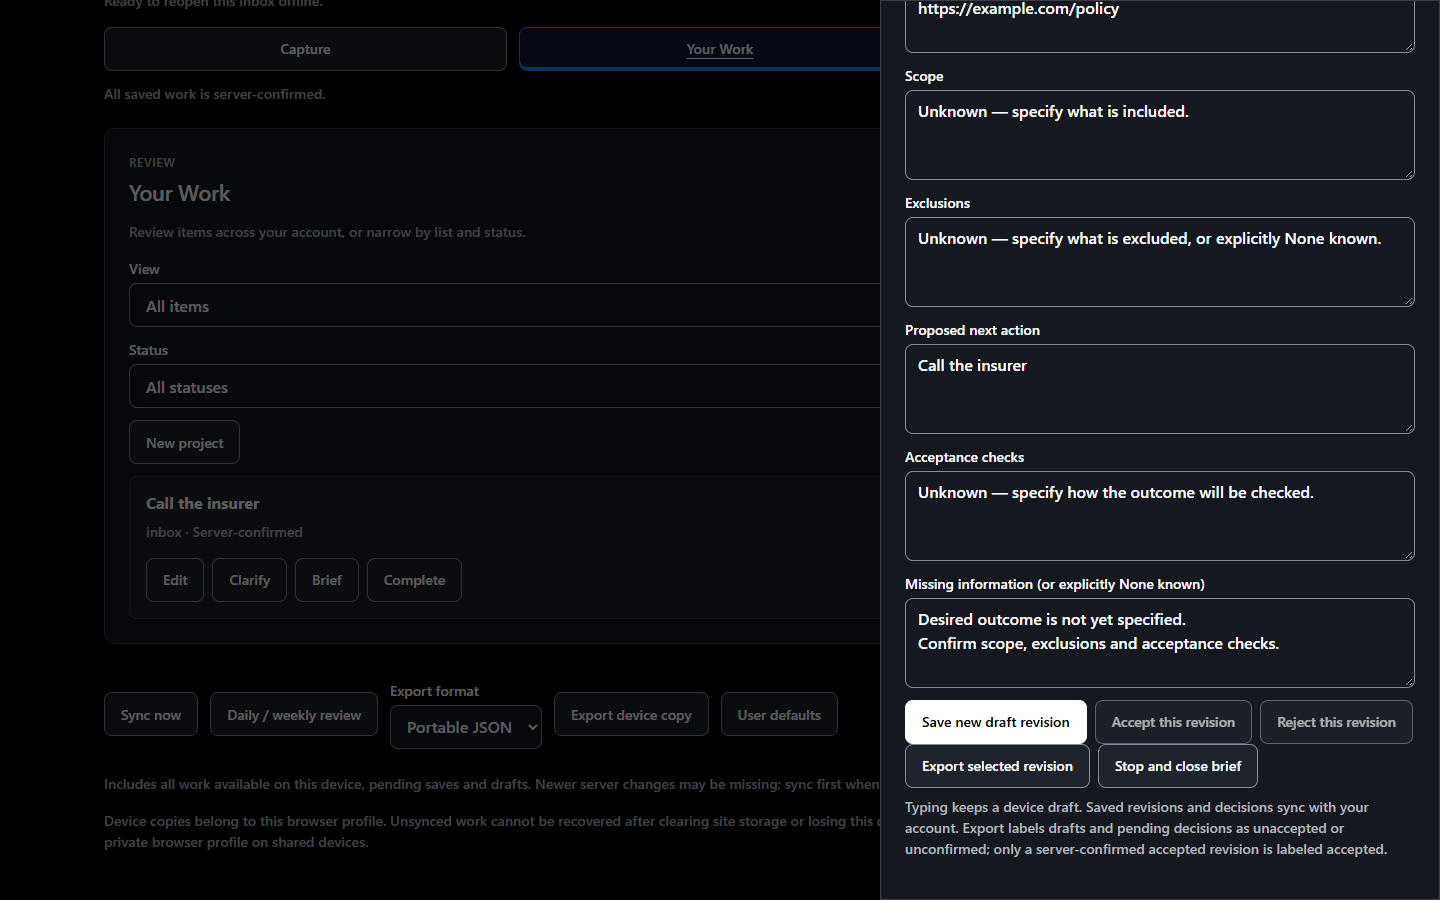
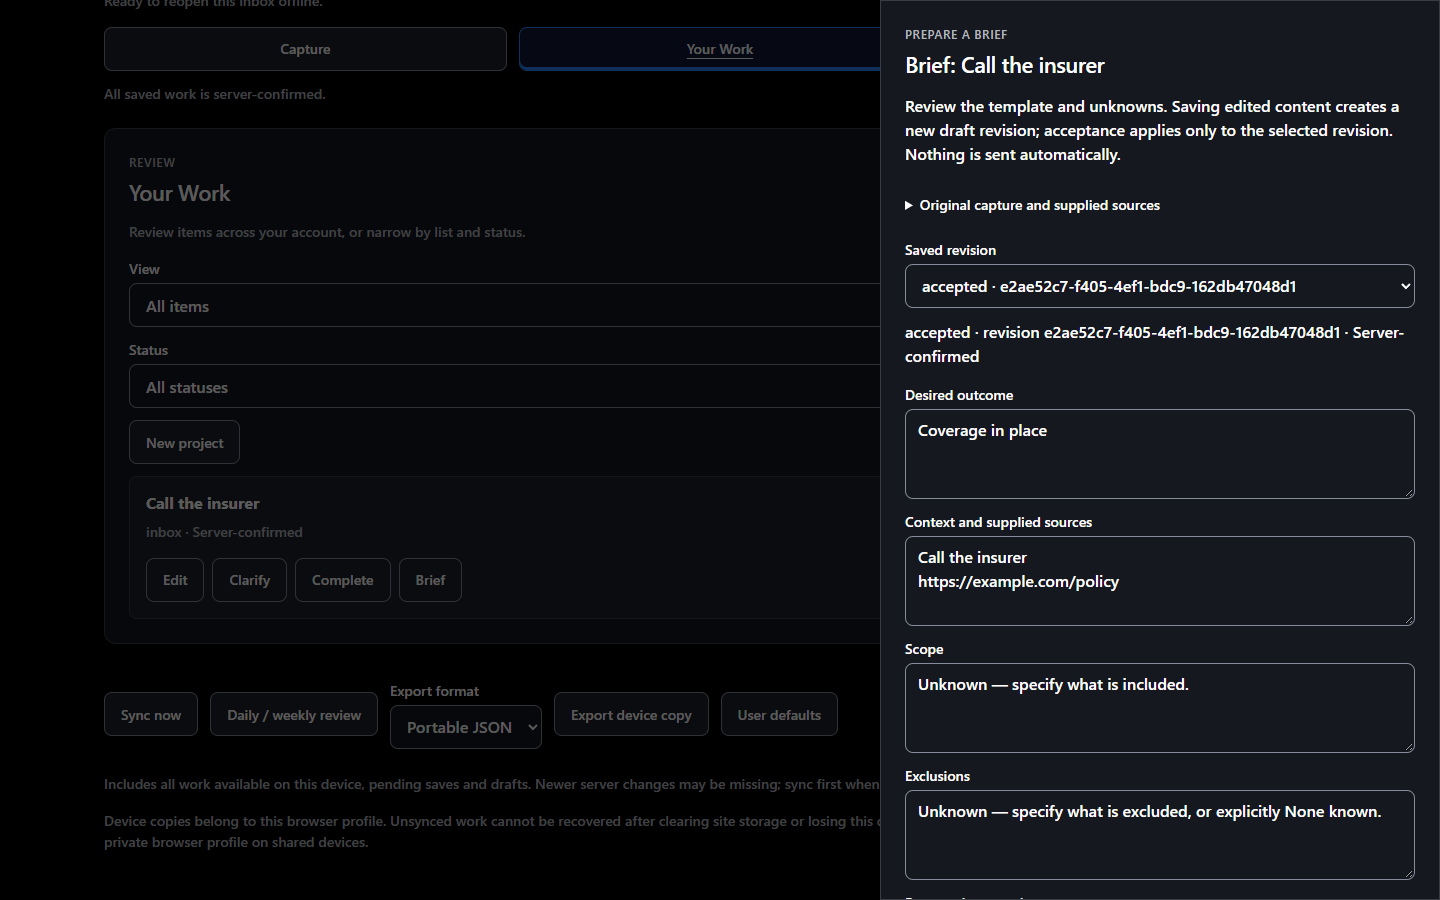
Integrate main guidance and verify combined offline shell

diff --git a/html/inbox.js b/html/inbox.js
@@ -1,9 +1,9 @@
-import { transact, key, projected, enqueue, applyReceipt, captureMutations } from './inbox-store.js?v=16';
-import { optionFields, formValues, fillValues, localDate, taskFields, addTaskControls, refreshTaskOptions, defaultsFrom, validateWorkflow, reviewReady } from './inbox-fields.js?v=16';
-import { deviceExport, readableExport } from './inbox-export.js?v=16';
-import { clarificationUI } from './clarification.js?v=16';
-import { setupReviews } from './reviews.js?v=16';
-import { setupBriefs } from './briefs.js?v=16';
+import { transact, key, projected, enqueue, applyReceipt, captureMutations } from './inbox-store.js?v=17';
+import { optionFields, formValues, fillValues, localDate, taskFields, addTaskControls, refreshTaskOptions, defaultsFrom, validateWorkflow, reviewReady } from './inbox-fields.js?v=17';
+import { deviceExport, readableExport } from './inbox-export.js?v=17';
+import { clarificationUI } from './clarification.js?v=17';
+import { setupReviews } from './reviews.js?v=17';
+import { setupBriefs } from './briefs.js?v=17';
 
 const $ = id => document.getElementById(id);
 const capture = $('capture'), edit = $('edit');
@@ -204,8 +204,8 @@ function render() {
     const action = record.status === 'completed' ? 'Reopen' : 'Complete';
     actions.append(button('Edit', () => openEditor(record), `Edit ${record.title}`, `${key(record)}:edit`),
       button('Clarify', () => clarification.open(record), `Clarify ${record.title}`, `${key(record)}:clarify`),
-      button('Brief', () => briefs.open(record), `Brief ${record.title}`, `${key(record)}:brief`),
-      button(action, () => updateRecord(record, { status: record.status === 'completed' ? record.statusBeforeCompletion || 'next' : 'completed' }), `${action} ${record.title}`, `${key(record)}:complete`));
+      button(action, () => updateRecord(record, { status: record.status === 'completed' ? record.statusBeforeCompletion || 'next' : 'completed' }), `${action} ${record.title}`, `${key(record)}:complete`),
+      button('Brief', () => briefs.open(record), `Brief ${record.title}`, `${key(record)}:brief`));
     if (record.workflowBeforeTransition) actions.append(button('Undo state change', () => updateRecord(record, record.workflowBeforeTransition), `Undo state change ${record.title}`, `${key(record)}:undo`));
     article.append(title, notes, metadata, status, actions); return article;
   }));

diff --git a/html/briefs.js b/html/briefs.js
@@ -36,7 +36,7 @@ export function setupBriefs({ records, save, journal, showDialog }) {
   }
   const content = () => Object.fromEntries(briefSections.map(([name]) => [name, form.elements[name].value]));
   const selected = () => active?.selectedId ? records()[`brief:${active.selectedId}`] : null;
-  const dirty = () => JSON.stringify(content()) !== JSON.stringify(active?.baseline);
+  const dirty = () => briefSections.some(([name]) => form.elements[name].value !== active?.baseline?.[name]);
   const snapshot = () => active ? { ...structuredClone(active), content: content(), open: dialog.open } : null;
   function error(message) { $('briefError').textContent = message; }
   function draw() {
@@ -102,7 +102,7 @@ export function setupBriefs({ records, save, journal, showDialog }) {
   $('briefExport').onclick = () => {
     if (dirty() || !selected()) return;
     const record = selected(), link = document.createElement('a'), url = URL.createObjectURL(new Blob([readableBrief(record)], { type: 'text/plain;charset=utf-8' }));
-    link.href = url; link.download = `brief-${record.id}-${record.status}.txt`; link.click(); setTimeout(() => URL.revokeObjectURL(url), 1000);
+    link.href = url; link.download = `brief-${record.id}-${record.localState ? 'unconfirmed' : record.status}.txt`; link.click(); setTimeout(() => URL.revokeObjectURL(url), 1000);
   };
   $('closeBriefs').onclick = () => dialog.close();
   dialog.addEventListener('cancel', event => { if (busy) event.preventDefault(); });

diff --git a/html/inbox-sw.js b/html/inbox-sw.js
@@ -1,8 +1,8 @@
 // Only public shell assets are cached. Never cache API/auth requests or task data.
-const CACHE = 'todo-inbox-shell-v16';
-const ASSETS = ['/local-guidance.js?v=16', '/', '/index.html', '/inbox.html', '/styles.css', '/theme.js', '/inbox.css', '/inbox.js', '/inbox-store.js', '/inbox-fields.js', '/inbox-export.js', '/reviews.js', '/clarification.js', '/clarification.js?v=16', '/reviews.js?v=16', '/pwa.js?v=16', '/manifest.json', '/icons/icon-192.png', '/icons/icon-512.png', '/icons/apple-touch-icon.png'];
+const CACHE = 'todo-inbox-shell-v17';
+const ASSETS = ['/local-guidance.js?v=17', '/', '/index.html', '/inbox.html', '/styles.css', '/theme.js', '/inbox.css', '/inbox.js', '/inbox-store.js', '/inbox-fields.js', '/inbox-export.js', '/reviews.js', '/clarification.js', '/clarification.js?v=17', '/reviews.js?v=17', '/pwa.js?v=17', '/manifest.json', '/icons/icon-192.png', '/icons/icon-512.png', '/icons/apple-touch-icon.png'];
 // Fresh module URLs bypass older workers' exact asset allowlists.
-ASSETS.push('/inbox.js?v=16', '/inbox-store.js?v=16', '/inbox-fields.js?v=16', '/inbox-export.js?v=16', '/briefs.js', '/briefs.js?v=16');
+ASSETS.push('/inbox.js?v=17', '/inbox-store.js?v=17', '/inbox-fields.js?v=17', '/inbox-export.js?v=17', '/briefs.js', '/briefs.js?v=17');
 self.addEventListener('install', event => {
   event.waitUntil(caches.open(CACHE).then(cache => cache.addAll(ASSETS)));
 });

diff --git a/html/inbox-export.js b/html/inbox-export.js
@@ -1,7 +1,7 @@
 // A device snapshot is never an instruction to replay old writes.
 const FORMAT = 'az-todo-device-export';
 const object = value => value !== null && typeof value === 'object' && !Array.isArray(value);
-import { readableBrief } from './briefs.js?v=16';
+import { readableBrief } from './briefs.js?v=17';
 const knownTypes = ['item', 'list', 'project', 'settings', 'clarification', 'review', 'brief'];
 const recordFields = ['id', 'type', 'accountId', 'version', 'createdUtc', 'updatedUtc', 'deleted', 'deletedUtc',
   'title', 'description', 'originalText', 'originalTextProvenance', 'sourceUrl', 'sourceTitle', 'selectedText',

diff --git a/html/pwa.js b/html/pwa.js
@@ -91,7 +91,7 @@
       const timeout = setTimeout(() => { reply.port1.close(); reject(new Error('Old shell is still active')); }, 2000);
       reply.port1.onmessage = event => {
         clearTimeout(timeout); reply.port1.close();
-        if (event.data === 'todo-inbox-shell-v16') resolve(); else reject(new Error('Old shell is still active'));
+        if (event.data === 'todo-inbox-shell-v17') resolve(); else reject(new Error('Old shell is still active'));
       };
       (navigator.serviceWorker.controller || registration.active).postMessage('shell-version', [reply.port2]);
     });

diff --git a/html/index.html b/html/index.html
@@ -8,10 +8,10 @@
   <link rel="apple-touch-icon" sizes="180x180" href="/icons/apple-touch-icon.png">
   <meta name="theme-color" content="#000000">
   <script src="/theme.js"></script>
-  <script src="/pwa.js?v=16" defer></script>
+  <script src="/pwa.js?v=17" defer></script>
   <link rel="stylesheet" href="/styles.css">
   <link rel="stylesheet" href="/inbox.css">
-  <script type="module" src="/inbox.js?v=16"></script>
+  <script type="module" src="/inbox.js?v=17"></script>
 </head>
 <body class="container inbox-page">
   <a class="skip-link" href="#workspace">Skip to current view</a>

diff --git a/html/reviews.js b/html/reviews.js
@@ -1,5 +1,5 @@
-import { key, projected } from './inbox-store.js?v=16';
-import { workflowFields, reviewReady, localDate, taskFields } from './inbox-fields.js?v=16';
+import { key, projected } from './inbox-store.js?v=17';
+import { workflowFields, reviewReady, localDate, taskFields } from './inbox-fields.js?v=17';
 
 const $ = id => document.getElementById(id);
 const snapshot = record => record.type === 'project' ? {} : Object.fromEntries(workflowFields.map(name => [name, record[name] ?? (name === 'waitingOn' ? '' : name === 'status' ? 'inbox' : null)]));

diff --git a/html/inbox-store.js b/html/inbox-store.js
@@ -1,4 +1,4 @@
-import { workflowFields, validateWorkflow } from './inbox-fields.js?v=16';
+import { workflowFields, validateWorkflow } from './inbox-fields.js?v=17';
 
 const empty = () => ({ records: {}, queue: [], after: 0, draft: {} });
 export const key = record => `${record.type}:${record.id}`;

diff --git a/html/clarification.js b/html/clarification.js
@@ -1,4 +1,4 @@
-import { localGuidance } from './local-guidance.js?v=16';
+import { localGuidance } from './local-guidance.js?v=17';
 
 // Proposals stay separate from action fields until the user accepts a question.
 export const questions = [

diff --git a/docs/briefs.md b/docs/briefs.md
@@ -48,7 +48,7 @@ brief fields. A device export can omit work not yet pulled from another device.
 ## API and recovery
 
 The additive `brief` record type uses the existing `/api/v1/operations`, records,
-receipts and changes endpoints. Deploy the API before shell v16. No IndexedDB,
+receipts and changes endpoints. Deploy the API before shell v17. No IndexedDB,
 partition, authentication or cursor migration is needed.
 
 A create has `subjectType` (`item` or `project`), `subjectId`, `sourceVersion`,
@@ -90,3 +90,8 @@ accepted versus draft exports, storage failures and account clearing. Screenshot
 in `docs/design/briefs/` show the native panel at 320, 390 and 1440 CSS pixels.
 Automated Windows/Edge checks do not establish physical phone, screen reader or
 deployed Cosmos/SWA behavior; those remain release checks under #17.
+
+On October 2, 2026, all 112 tests passed with Node 26.7.0 and Edge 154.0.4258.53
+on Windows after rebasing onto main's PR #44 (`e173bbf`). The combined shell is
+v17; upgrade tests cover v3–v16. The four brief checks also passed again after
+the final draft comparison and unconfirmed export filename refinements.

diff --git a/docs/data-api-v1.md b/docs/data-api-v1.md
@@ -24,7 +24,7 @@ and session progress share an atomic operation. Deploy that API before shell v11
 The additive [brief contract](briefs.md#api-and-recovery) introduces immutable
 content revisions with explicit acceptance/rejection. Draft creation and decisions
 use the existing account transaction, receipt and conflict protocol. Deploy that
-API before shell v16.
+API before shell v17.
 
 **Decision: retain the working account transaction boundary.** The physical
 hierarchical paths remain `[/UserID, /ObjectType, /ObjectID]`; their v1 values are
